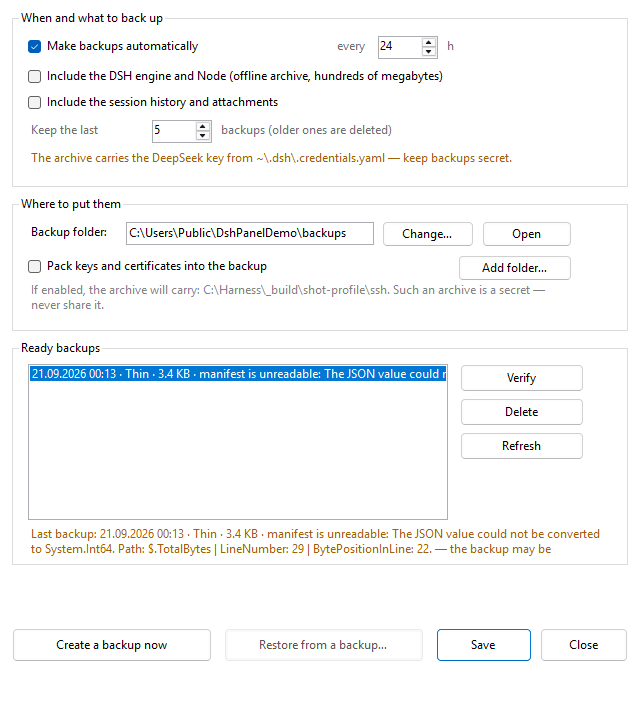
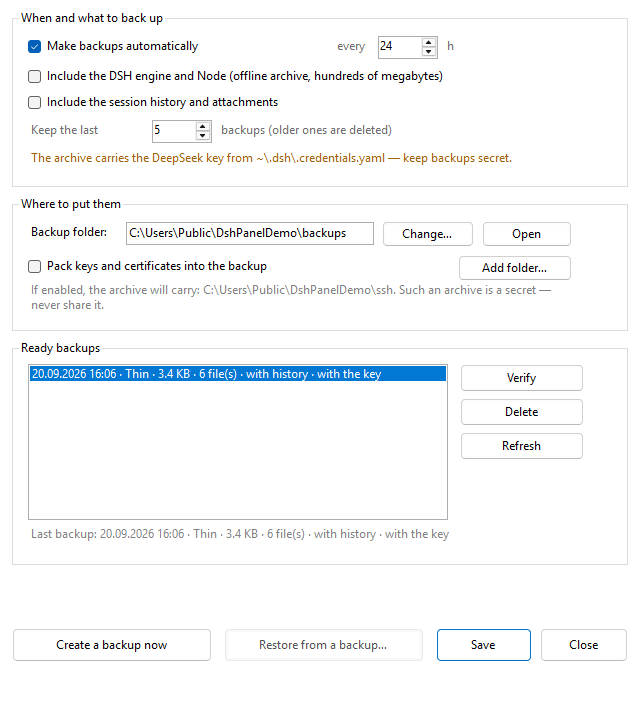
docs: re-shoot the screenshots on a neutral profile and fix two changelog claims
The backups window no longer shows the builder's ssh folder, and the demo archive it lists
is the fixed one (integer manifest), so the old 'manifest is unreadable' text is gone.
The CHANGELOG no longer promises that the installer downloads the .NET runtime: it is bundled.
The personal-data check is now a standalone tool, and CI runs it together with the encoding
check.

diff --git a/CHANGELOG.md b/CHANGELOG.md
@@ -93,8 +93,8 @@
   ключа видна сразу.
 - **Установщик больше не падает на машине без .NET Desktop Runtime 8.** Страница загрузки среды
   создавалась раньше, чем Inno Setup строит окно мастера, — установщик завершался внутренней
-  ошибкой именно там, где он и нужен. Теперь среда скачивается с полосой прогресса, а в тихой
-  установке вопроса не задаётся вовсе.
+  ошибкой именно там, где он и нужен. Теперь среда ставится из файла, вложенного в установщик:
+  загрузки нет, интернет не нужен, и в тихой установке вопроса не задаётся вовсе.
 - **Обновление панели работает на русских путях.** Сценарий замены файлов писался в UTF-8, а
   `cmd.exe` читает его в кодировке консоли: путь с кириллицей (`C:\Users\Иван\…`) не находился, и
   обновление заканчивалось исчезнувшим значком в трее без объяснений. Теперь сценарий состоит
@@ -127,10 +127,10 @@
   сверка с опубликованной суммой — единственная доступная проверка целостности. Неудачная
   попытка обновления убирает за собой: обрезанные загрузки больше не копятся в
   `%LOCALAPPDATA%\DshPanel\update`.
-- **Среда .NET, которую скачивает установщик, проверяется по подписи Microsoft.** Ссылка на
-  среду плавающая (всегда свежий выпуск 8.x), поэтому вместо жёсткой контрольной суммы, которую
-  пришлось бы обновлять с каждым патчем, установщик проверяет цифровую подпись файла и не
-  запускает его, если подпись недействительна или принадлежит не Microsoft.
+- **Среда .NET внутри установщика проверяется по подписи Microsoft.** Сборка установщика берёт
+  закреплённую версию среды (8.0.31), скачивает её один раз и проверяет цифровую подпись файла:
+  неподписанный или чужой файл в установщик не попадёт. Плавающая ссылка осталась только запасным
+  путём для ручной сборки.
 - **Предрелизные версии обновляются правильно.** Панель, поставившая `1.21.0-rc.1`, теперь
   получает `1.21.0`, а не считает её той же версией; сравнение следует SemVer (`rc.10` новее
   `rc.2`). Случаи сравнения проверяются самопроверкой `--selftest` и приёмкой.
